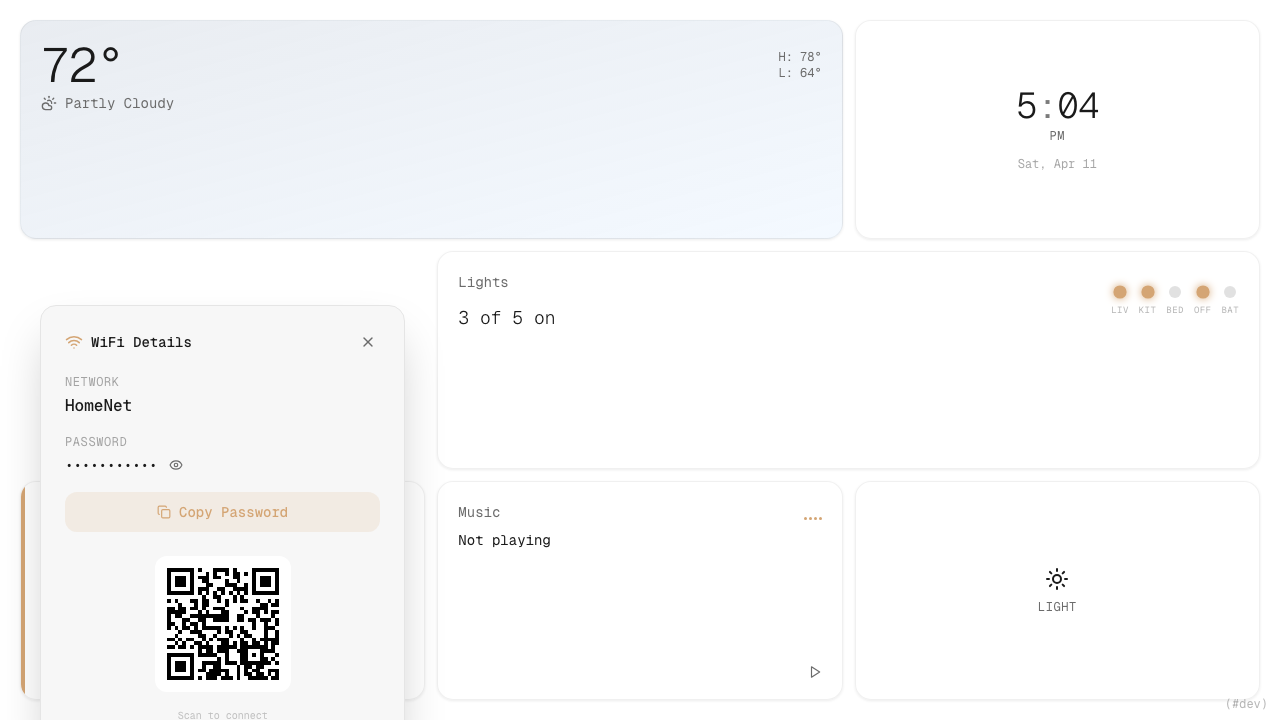
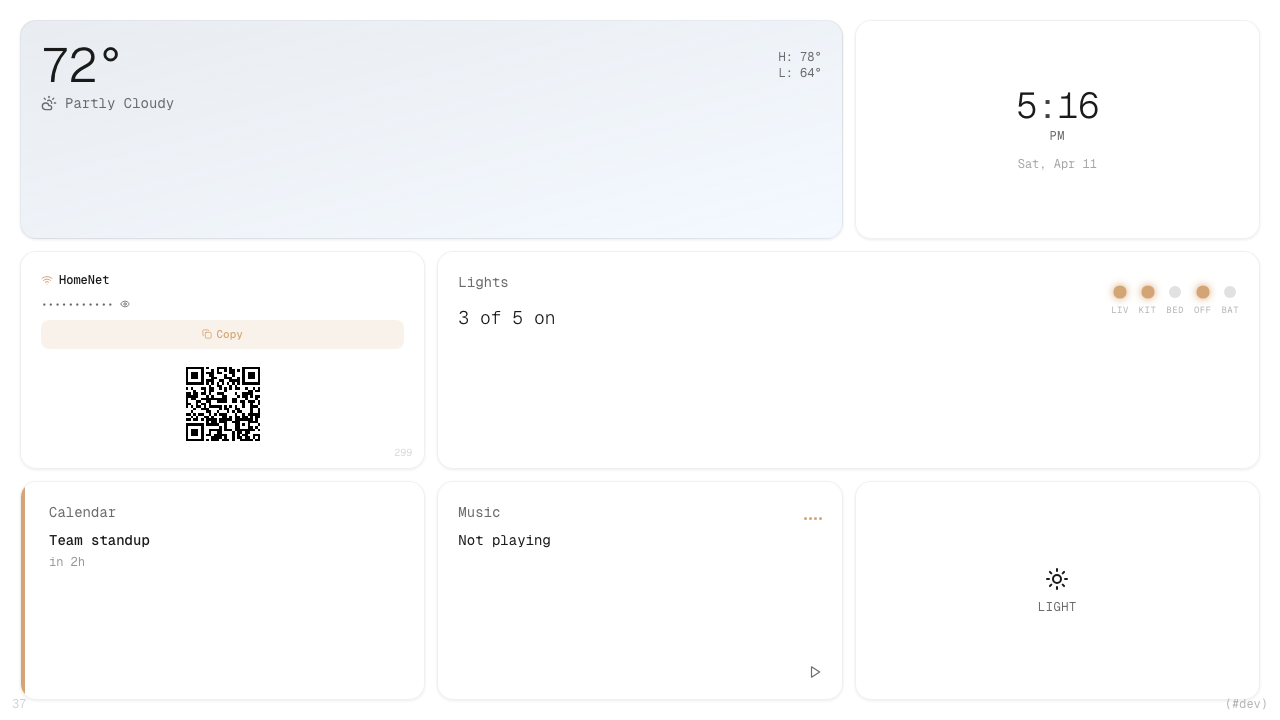
feat: 3D flip WiFi card with auto-flip-back countdown
Replace expanding WiFi overlay with in-place 3D card flip.
Front shows SSID and connection status, back shows password
(masked/reveal), copy button, QR code, and 300s countdown
in bottom-right corner. Auto-flips back when timer expires.

diff --git a/apps/web/src/components/hub/wifi-card.tsx b/apps/web/src/components/hub/wifi-card.tsx
@@ -1,164 +1,169 @@
 import { BentoCard } from "@/components/hub/bento-card";
-import { Check, Copy, Eye, EyeOff, Wifi, X } from "lucide-react";
+import { Check, Copy, Eye, EyeOff, Wifi } from "lucide-react";
 import QRCode from "qrcode";
-import { useCallback, useEffect, useRef, useState } from "react";
+import { useCallback, useEffect, useState } from "react";
 
 const WIFI_SSID = "HomeNet";
 const WIFI_PASSWORD = "welcome2024";
 const WIFI_ENCRYPTION = "WPA";
+const AUTO_FLIP_BACK_MS = 300_000;
 
 function generateWifiUri(ssid: string, password: string, encryption: string): string {
   return `WIFI:T:${encryption};S:${ssid};P:${password};;`;
 }
 
 export function WifiCard() {
-  const [expanded, setExpanded] = useState(false);
+  const [flipped, setFlipped] = useState(false);
   const [showPassword, setShowPassword] = useState(false);
   const [copied, setCopied] = useState(false);
   const [qrSvg, setQrSvg] = useState<string>("");
-  const cardRef = useRef<HTMLDivElement>(null);
+  const [countdown, setCountdown] = useState(0);
 
   useEffect(() => {
     const uri = generateWifiUri(WIFI_SSID, WIFI_PASSWORD, WIFI_ENCRYPTION);
     QRCode.toString(uri, {
       type: "svg",
-      width: 120,
+      width: 80,
       margin: 1,
       color: { dark: "#000000", light: "#ffffff" },
     }).then(setQrSvg);
   }, []);
 
-  const handleCopy = useCallback(async () => {
+  const handleCopy = useCallback(async (e: React.MouseEvent) => {
+    e.stopPropagation();
     await navigator.clipboard.writeText(WIFI_PASSWORD);
     setCopied(true);
     setTimeout(() => setCopied(false), 2000);
   }, []);
 
   useEffect(() => {
-    if (!expanded) return;
-
-    function handleClickOutside(e: MouseEvent) {
-      if (cardRef.current && !cardRef.current.contains(e.target as Node)) {
-        setExpanded(false);
-        setShowPassword(false);
-      }
+    if (flipped) {
+      setCountdown(Math.ceil(AUTO_FLIP_BACK_MS / 1000));
+      const tick = setInterval(() => {
+        setCountdown((prev) => {
+          if (prev <= 1) {
+            setFlipped(false);
+            setShowPassword(false);
+            return 0;
+          }
+          return prev - 1;
+        });
+      }, 1000);
+      return () => clearInterval(tick);
     }
+    setCountdown(0);
+  }, [flipped]);
 
-    document.addEventListener("mousedown", handleClickOutside);
-    return () => document.removeEventListener("mousedown", handleClickOutside);
-  }, [expanded]);
-
-  if (expanded) {
-    return (
-      <div
-        ref={cardRef}
-        data-testid="widget-card-wifi-expanded"
-        className="
-          absolute z-50 inset-x-5 top-1/4
-          rounded-2xl p-6
-          bg-card backdrop-blur-md border border-border
-          shadow-2xl
-          animate-[scaleIn_200ms_ease-out]
-        "
-        style={{ gridArea: "wifi" }}
-      >
-        <div className="flex items-center justify-between mb-5">
-          <div className="flex items-center gap-2">
-            <Wifi size={18} className="text-accent" />
-            <span className="text-sm font-medium text-foreground">WiFi Details</span>
-          </div>
-          <button
-            type="button"
-            onClick={() => {
-              setExpanded(false);
-              setShowPassword(false);
-            }}
-            className="p-1 rounded-full hover:bg-muted transition-colors"
-          >
-            <X size={16} className="text-muted-foreground" />
-          </button>
-        </div>
-
-        <div className="space-y-4">
-          <div>
-            <div className="text-xs text-muted-foreground/60 uppercase tracking-wider mb-1">
-              Network
-            </div>
-            <div className="text-foreground font-medium">{WIFI_SSID}</div>
-          </div>
-
-          <div>
-            <div className="text-xs text-muted-foreground/60 uppercase tracking-wider mb-1">
-              Password
-            </div>
-            <div className="flex items-center gap-2">
-              <span className="text-foreground font-mono text-sm">
-                {showPassword ? WIFI_PASSWORD : "\u2022".repeat(WIFI_PASSWORD.length)}
-              </span>
-              <button
-                type="button"
-                onClick={() => setShowPassword(!showPassword)}
-                className="p-1 rounded hover:bg-muted transition-colors"
-              >
-                {showPassword ? (
-                  <EyeOff size={14} className="text-muted-foreground" />
-                ) : (
-                  <Eye size={14} className="text-muted-foreground" />
-                )}
-              </button>
-            </div>
-          </div>
-
-          <button
-            type="button"
-            onClick={handleCopy}
-            className="
-              w-full py-2.5 rounded-xl text-sm font-medium
-              bg-accent/15 text-accent hover:bg-accent/25
-              transition-colors flex items-center justify-center gap-2
-            "
-          >
-            {copied ? (
-              <>
-                <Check size={14} />
-                Copied
-              </>
-            ) : (
-              <>
-                <Copy size={14} />
-                Copy Password
-              </>
-            )}
-          </button>
-
-          <div className="flex justify-center pt-2">
-            <div
-              className="rounded-xl overflow-hidden bg-white p-2"
-              // biome-ignore lint/security/noDangerouslySetInnerHtml: QR SVG from trusted qrcode library
-              dangerouslySetInnerHTML={{ __html: qrSvg }}
-            />
-          </div>
-          <div className="text-center text-[10px] text-muted-foreground/40">Scan to connect</div>
-        </div>
-      </div>
-    );
-  }
+  const handleFlip = () => {
+    setFlipped(!flipped);
+    if (flipped) setShowPassword(false);
+  };
 
   return (
-    <BentoCard testId="widget-card-wifi" gridArea="wifi" onClick={() => setExpanded(true)}>
-      <div className="flex flex-col justify-between h-full">
-        <div>
-          <div className="flex items-center gap-2 mb-2">
-            <div className="relative">
-              <Wifi size={16} className="text-foreground" />
-              <div className="absolute -bottom-0.5 -right-0.5 w-1.5 h-1.5 rounded-full bg-green-500" />
+    <div
+      data-testid="widget-card-wifi"
+      className="[perspective:600px]"
+      style={{ gridArea: "wifi" }}
+    >
+      <div
+        className="relative w-full h-full transition-transform duration-500 [transform-style:preserve-3d]"
+        style={{ transform: flipped ? "rotateY(180deg)" : "rotateY(0deg)" }}
+      >
+        {/* Front */}
+        <div className="absolute inset-0 [backface-visibility:hidden]">
+          <BentoCard testId="widget-card-wifi-front" onClick={handleFlip} className="h-full">
+            <div className="flex flex-col justify-between h-full">
+              <div>
+                <div className="flex items-center gap-2 mb-2">
+                  <div className="relative">
+                    <Wifi size={16} className="text-foreground" />
+                    <div className="absolute -bottom-0.5 -right-0.5 w-1.5 h-1.5 rounded-full bg-green-500" />
+                  </div>
+                  <span className="text-sm text-muted-foreground">WiFi</span>
+                </div>
+                <div className="text-sm font-medium text-foreground">{WIFI_SSID}</div>
+              </div>
+              <div className="text-[10px] text-muted-foreground/40 mt-2">tap to share</div>
             </div>
-            <span className="text-sm text-muted-foreground">WiFi</span>
-          </div>
-          <div className="text-sm font-medium text-foreground">{WIFI_SSID}</div>
+          </BentoCard>
         </div>
-        <div className="text-[10px] text-muted-foreground/40 mt-2">tap to share</div>
+
+        {/* Back */}
+        <div
+          className="absolute inset-0 [backface-visibility:hidden]"
+          style={{ transform: "rotateY(180deg)" }}
+        >
+          <BentoCard
+            testId="widget-card-wifi-back"
+            onClick={handleFlip}
+            className="relative h-full overflow-hidden"
+          >
+            <div className="flex flex-col justify-between h-full">
+              <div className="space-y-2">
+                <div className="flex items-center gap-1.5">
+                  <Wifi size={12} className="text-accent" />
+                  <span className="text-xs font-medium text-foreground">{WIFI_SSID}</span>
+                </div>
+
+                <div className="flex items-center gap-1">
+                  <span className="text-[11px] font-mono text-muted-foreground">
+                    {showPassword ? WIFI_PASSWORD : "\u2022".repeat(WIFI_PASSWORD.length)}
+                  </span>
+                  <button
+                    type="button"
+                    onClick={(e) => {
+                      e.stopPropagation();
+                      setShowPassword(!showPassword);
+                    }}
+                    className="p-0.5 rounded hover:bg-muted transition-colors"
+                  >
+                    {showPassword ? (
+                      <EyeOff size={10} className="text-muted-foreground" />
+                    ) : (
+                      <Eye size={10} className="text-muted-foreground" />
+                    )}
+                  </button>
+                </div>
+
+                <button
+                  type="button"
+                  onClick={handleCopy}
+                  className="
+                    w-full py-1.5 rounded-lg text-[11px] font-medium
+                    bg-accent/15 text-accent hover:bg-accent/25
+                    transition-colors flex items-center justify-center gap-1
+                  "
+                >
+                  {copied ? (
+                    <>
+                      <Check size={10} />
+                      Copied
+                    </>
+                  ) : (
+                    <>
+                      <Copy size={10} />
+                      Copy
+                    </>
+                  )}
+                </button>
+              </div>
+
+              <div className="flex justify-center">
+                <div
+                  className="rounded-md overflow-hidden bg-white p-1"
+                  // biome-ignore lint/security/noDangerouslySetInnerHtml: QR SVG from trusted qrcode library
+                  dangerouslySetInnerHTML={{ __html: qrSvg }}
+                />
+              </div>
+            </div>
+            {countdown > 0 && (
+              <span className="absolute bottom-2 right-3 font-mono text-[10px] tabular-nums text-muted-foreground/25">
+                {countdown}
+              </span>
+            )}
+          </BentoCard>
+        </div>
       </div>
-    </BentoCard>
+    </div>
   );
 }
